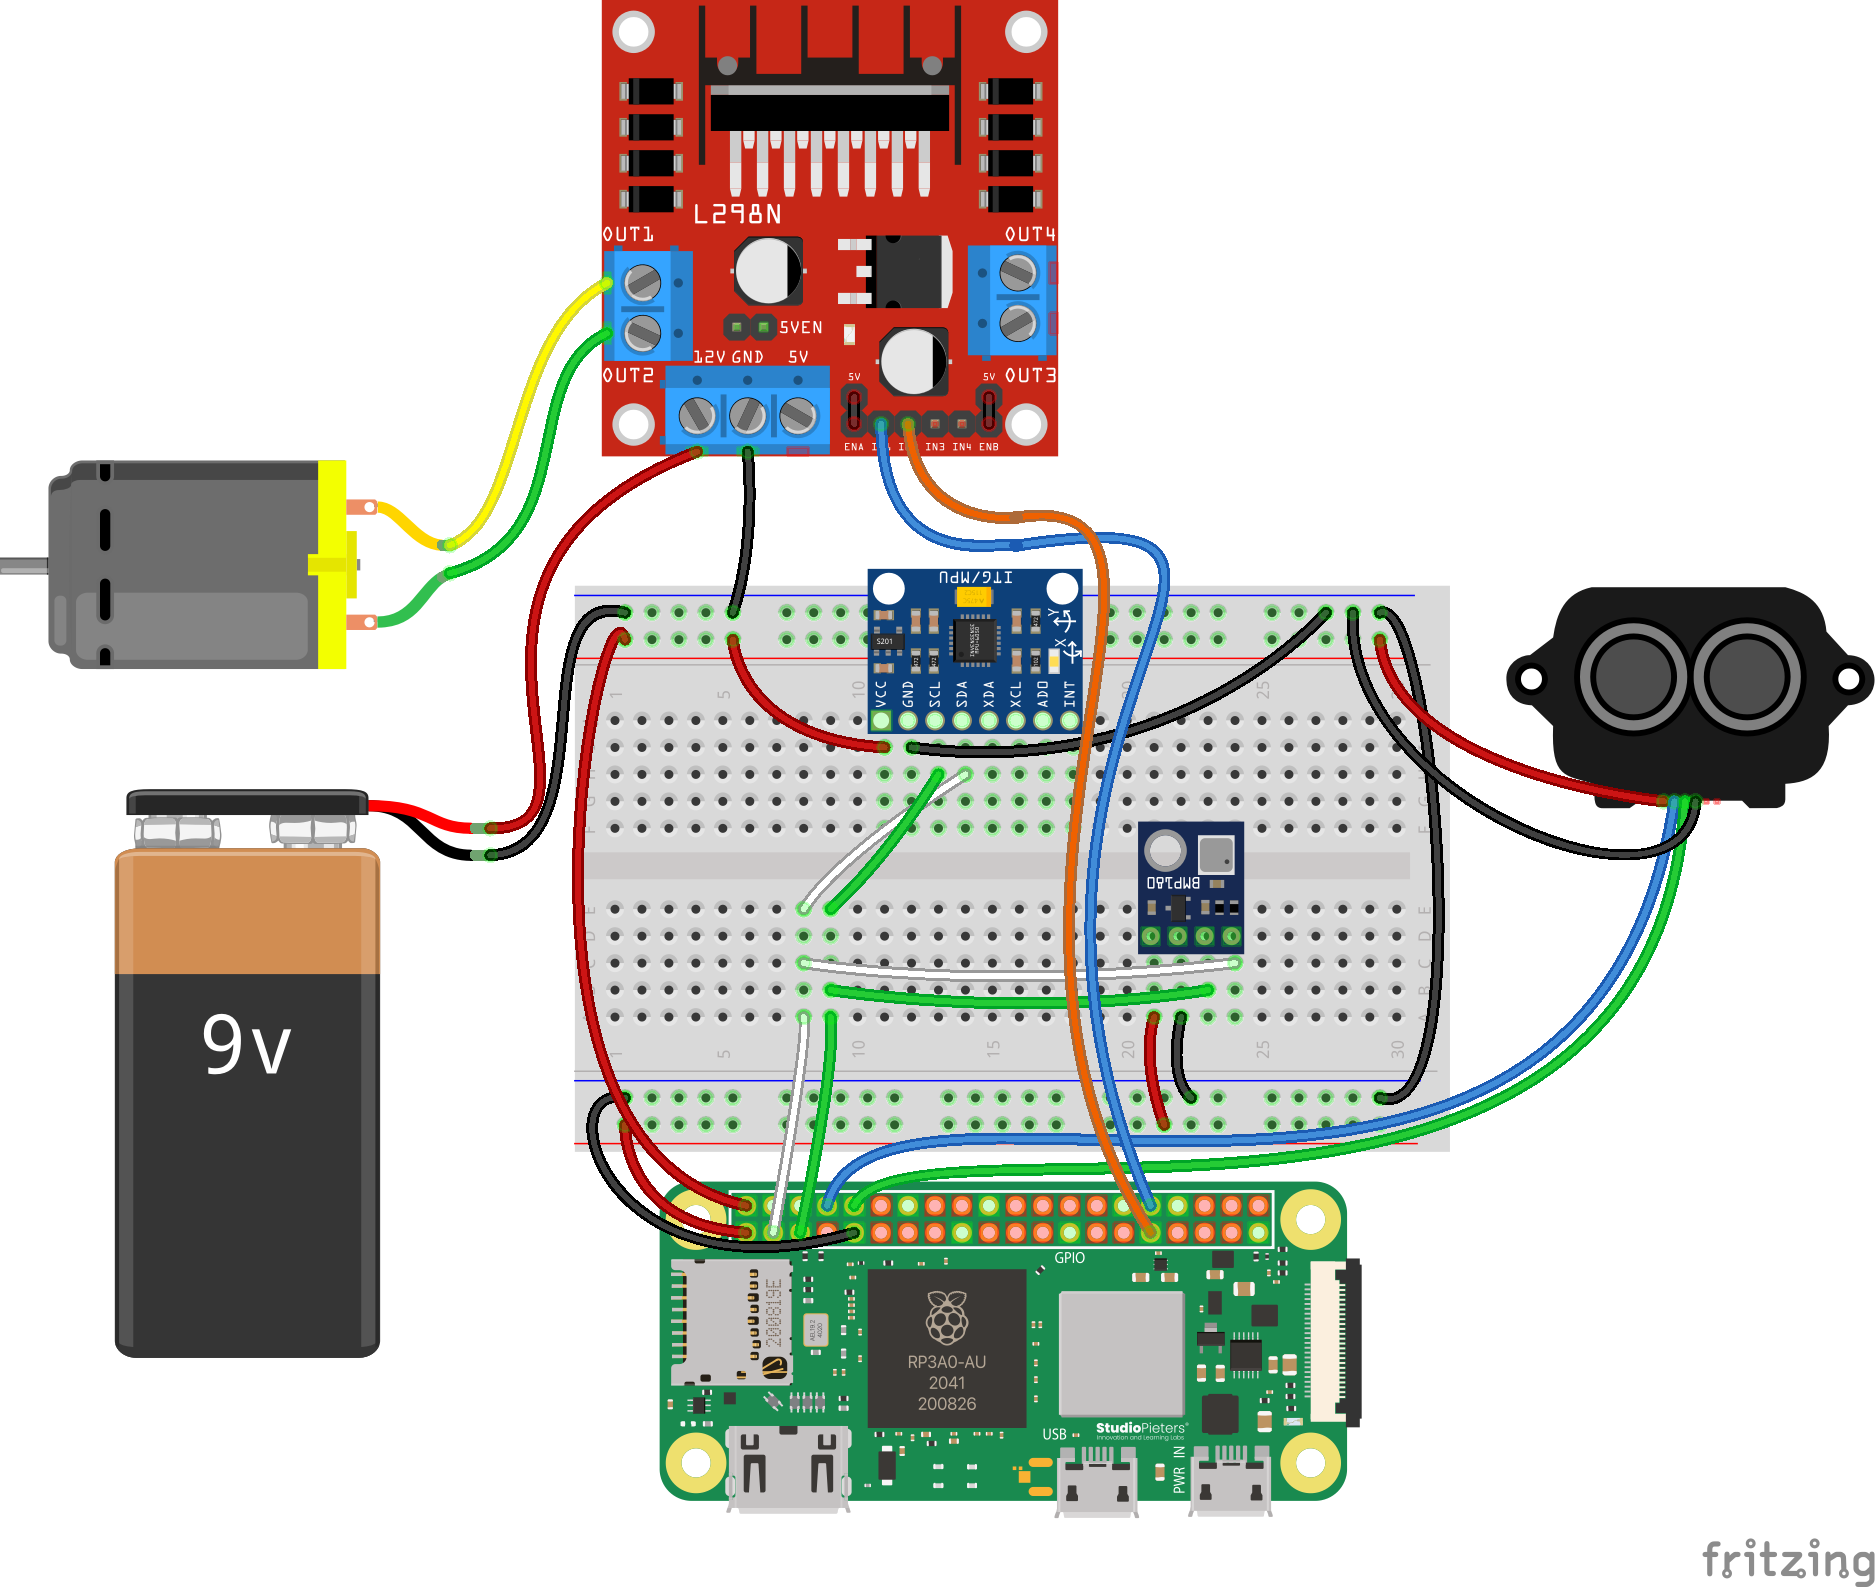
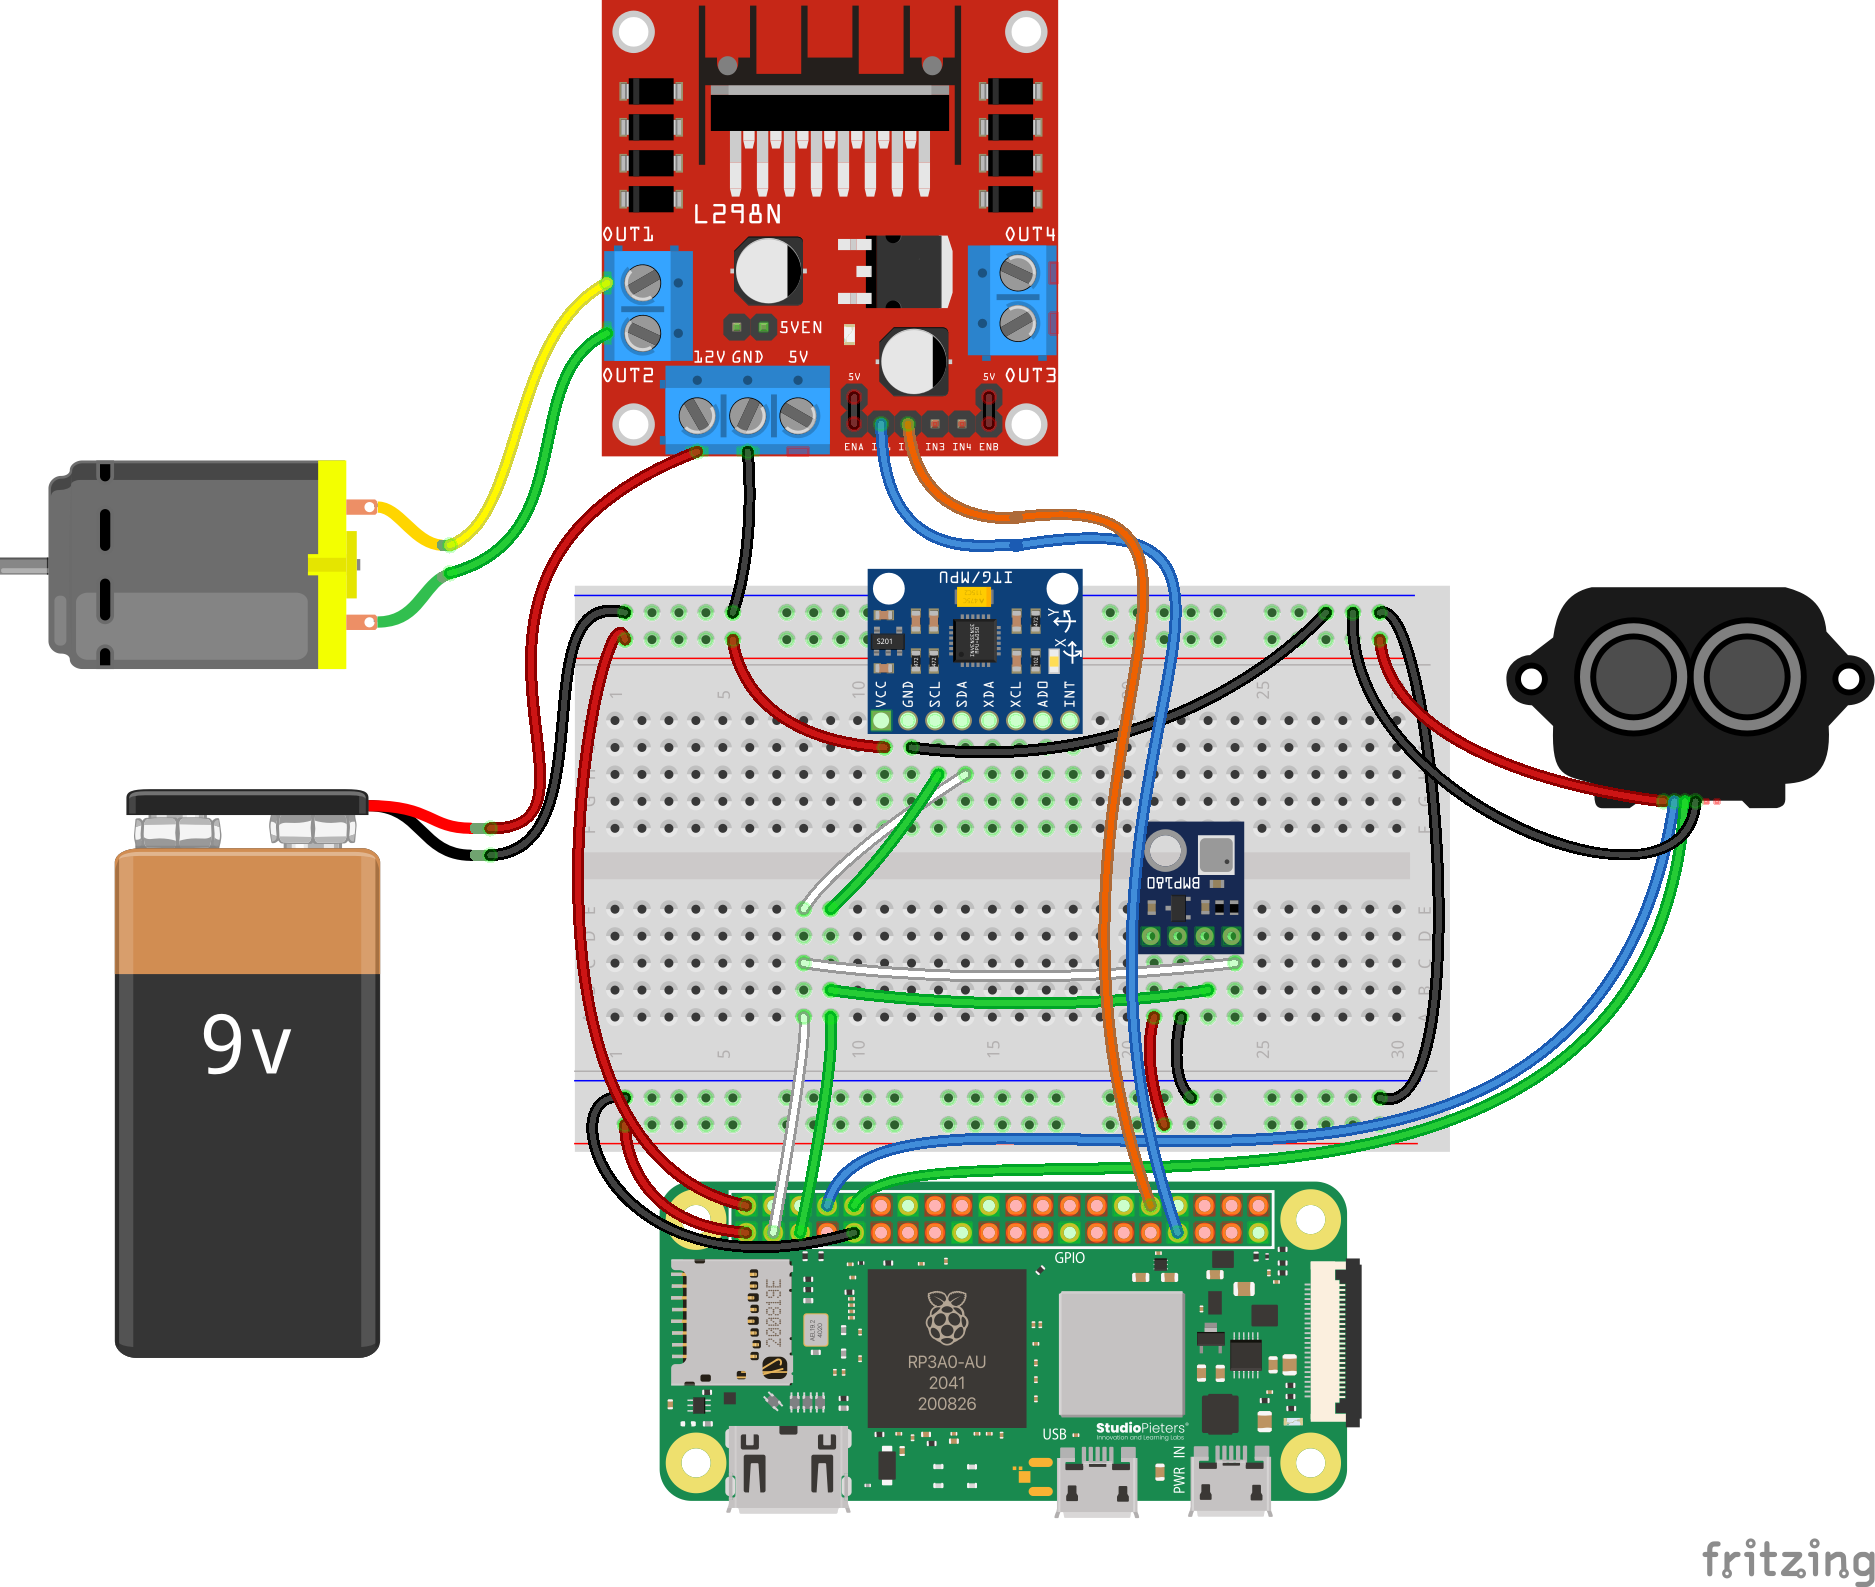
fix(motor): Switch the pins again to BE on PWM

Changed region(s): [[0.5568, 0.3088, 0.6496, 0.8028]]

diff --git a/static/example/main.py b/static/example/main.py
@@ -11,8 +11,8 @@ app = Flask(__name__)
 app.config['SECRET_KEY'] = 'your-secret-key!'
 socketio = SocketIO(app)
 
-MOTOR_IN1_PIN = 5
-MOTOR_IN2_PIN = 6
+MOTOR_IN1_PIN = 12
+MOTOR_IN2_PIN = 13
 
 print("INFO: Initializing hardware...")
 bmp = BMP180()

diff --git a/docs/challenges/motor/motor.md b/docs/challenges/motor/motor.md
@@ -31,8 +31,8 @@ The code for this is relatively simple, as all we're doing is turning the pins o
 import RPi.GPIO as GPIO
 
 # First, we define our two output pins that the motor controller is connected to.
-IN1 = 5
-IN2 = 6
+IN1 = 12
+IN2 = 13
 
 # Set the GPIO numbering mode so that it knows how we're referring to the pins
 GPIO.setmode(GPIO.BCM)
